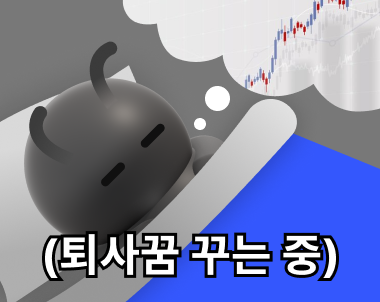
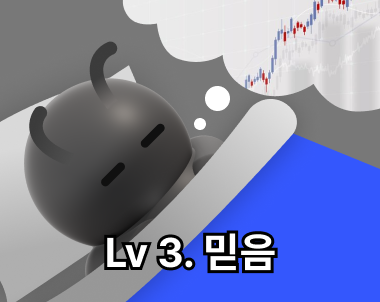
#90 [refactor] 이미지 멘트 수정 및 워드클라우드 오류 수정

Changed region(s): [[0.0868, 0.745, 0.8974, 0.9536]]

diff --git a/src/components/Search/StockWordCloud/StockWordCloud.tsx b/src/components/Search/StockWordCloud/StockWordCloud.tsx
@@ -55,7 +55,7 @@ const StockWordCloud = ({ symbol, country }: { symbol: string; country: STOCK_CO
   }, [state]);
 
   useEffect(() => {
-    if (!wordCloud.length || currentIndex > wordCloud.length) return;
+    if (!wordCloud || currentIndex > wordCloud.length) return;
 
     const interval = setInterval(() => {
       setCurrentIndex((prev) => {
@@ -68,7 +68,7 @@ const StockWordCloud = ({ symbol, country }: { symbol: string; country: STOCK_CO
 
   return (
     <StockWordCloudContainer ref={containerRef}>
-      {wordCloud.length ? (
+      {wordCloud ? (
         [...wordCloud]
           .reverse()
           .map(
